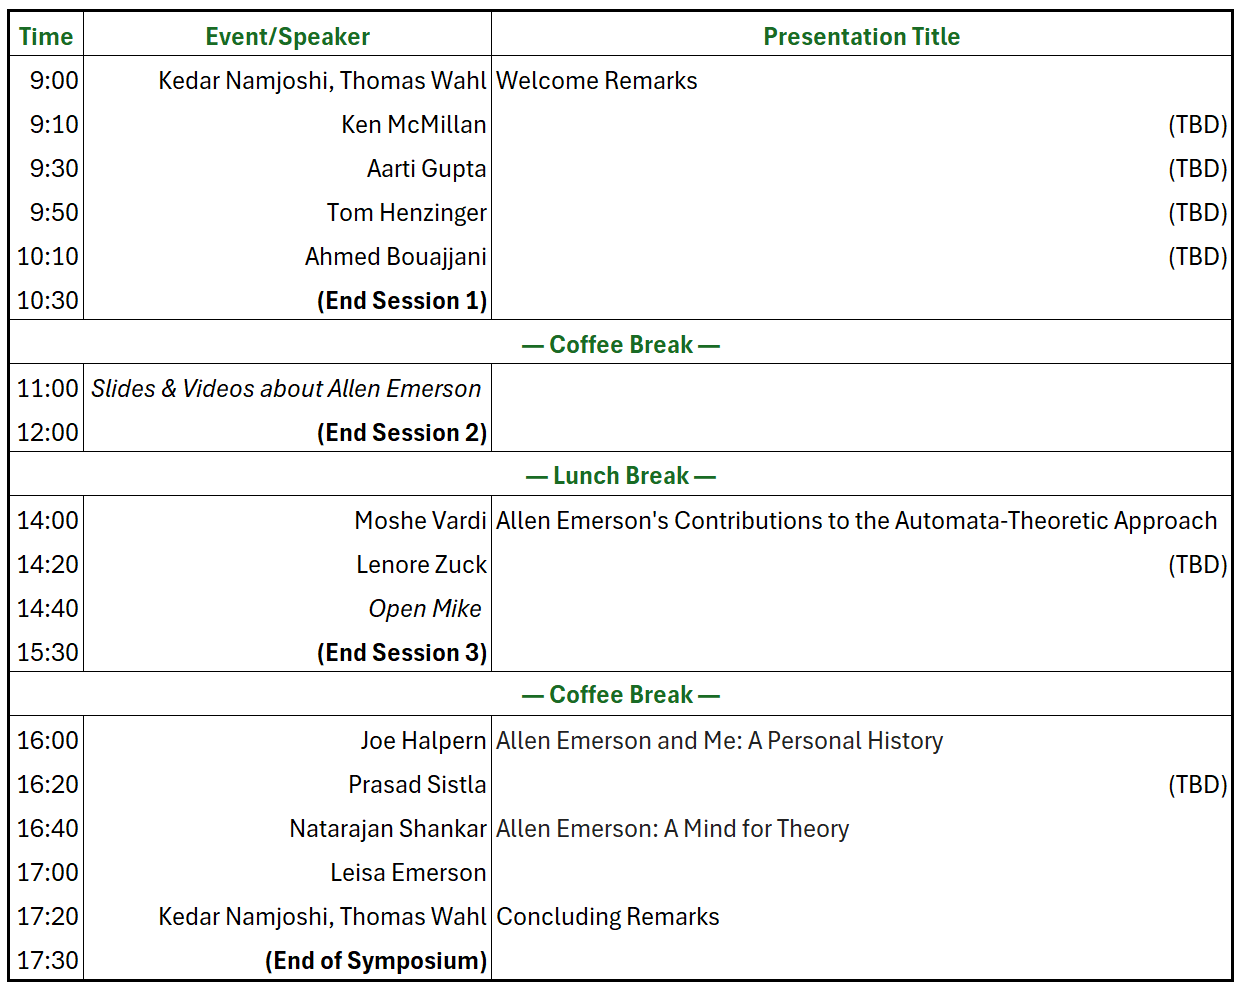
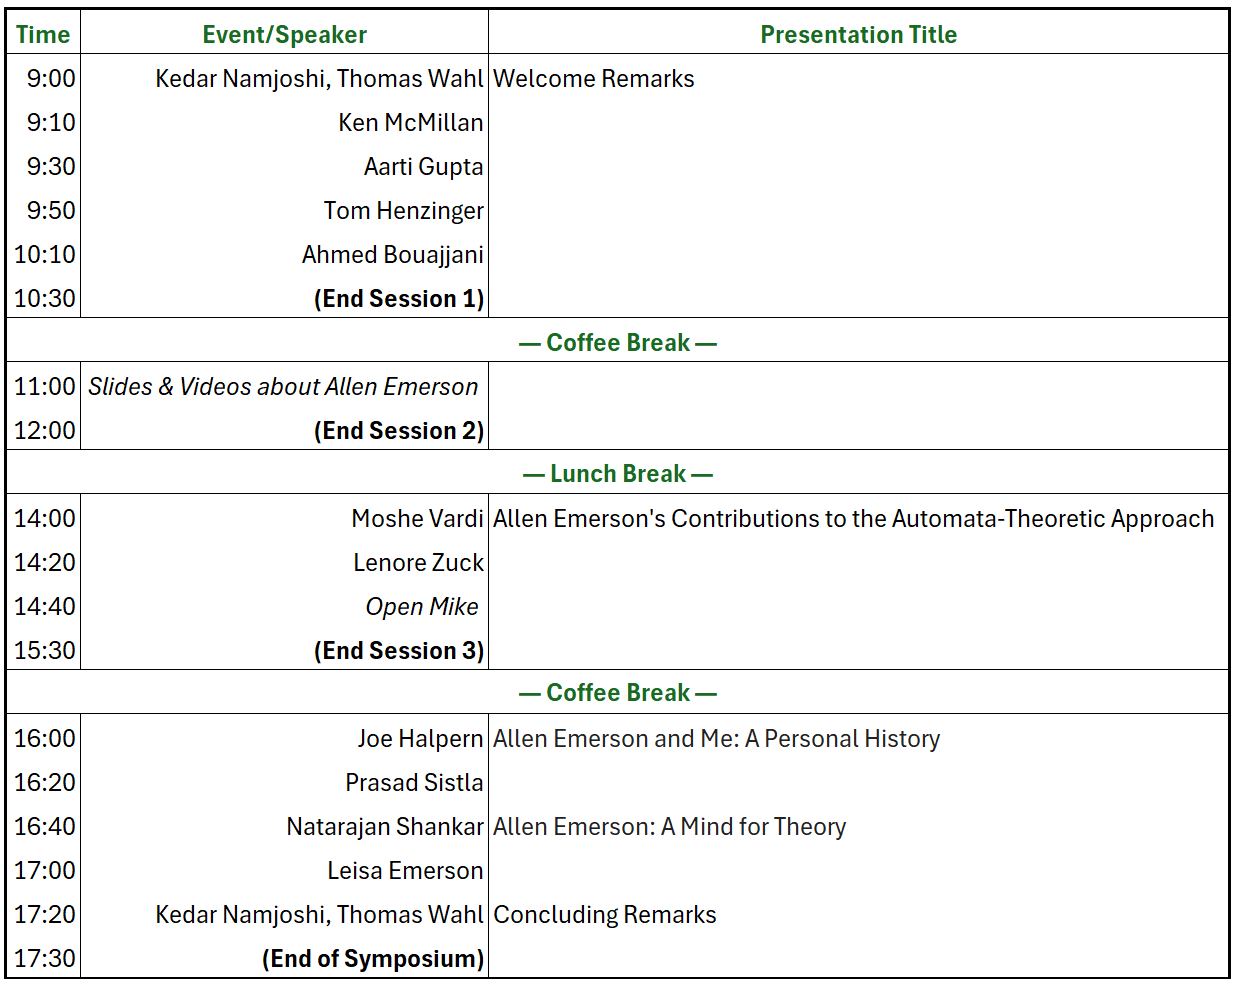
removed TBD

Changed region(s): [[0.0, 0.0, 1.0, 1.0], [0.2464, 0.611, 0.4003, 0.6721], [0.4311, 0.336, 0.5543, 0.3666]]

diff --git a/index.html b/index.html
@@ -20,7 +20,7 @@
 
     <p>We celebrate Allen's legacy with <b>a day-long memorial symposium in his honor, to be held on July 21, 2025,</b> as part of the first workshop day at <a href="https://conferences.i-cav.org/2025">CAV 2025</a>. The Symposium is <em>the</em> place to hear about Allen's research and its impact, to talk about Allen as a collaborator, advisor, and friend, and simply to share stories of memorable interactions with him. The event will feature presentations and remarks by leading researchers in the field of formal verification, slides and videos documenting Allen's life in pictures, and an open-mike session where audience members can spontaneously share their own memories of Allen. The tentative Symposium program is as follows:</p>
 
-    <img src="./schedule.png" alt="E. Allen Emerson Memorial Symposium Program" width="1000" height="797"> <br> <! -- Original dimensions: width="1239" height="988" -->
+    <img src="./schedule.png" alt="E. Allen Emerson Memorial Symposium Program" width="1000" height="796"> <br> <! -- Original dimensions: width="1234" height="982" -->
 <br>
 
     <p>Participation in the Symposium requires registration for the first CAV workshop day; see the <a href="https://conferences.i-cav.org/2025/registration">CAV registration page</a> for full information. Complimentary lunch will be provided for all registered workshop participants.</p>
